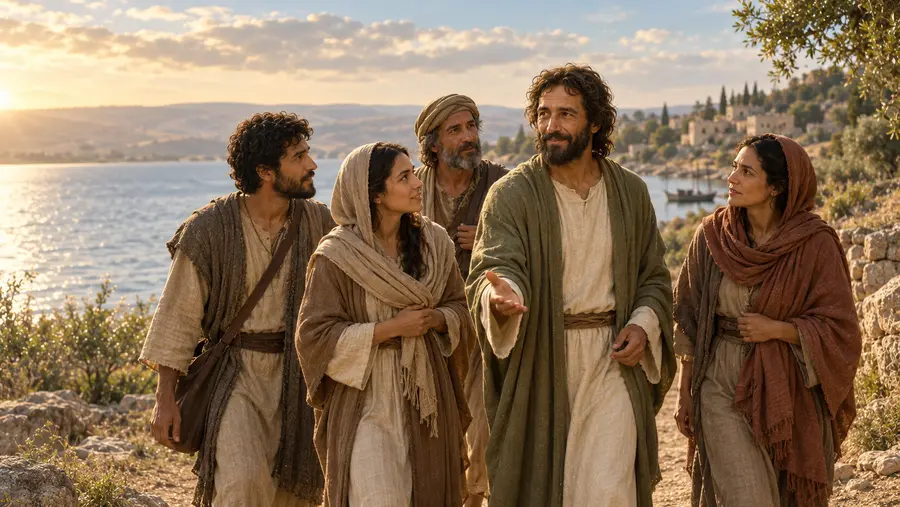
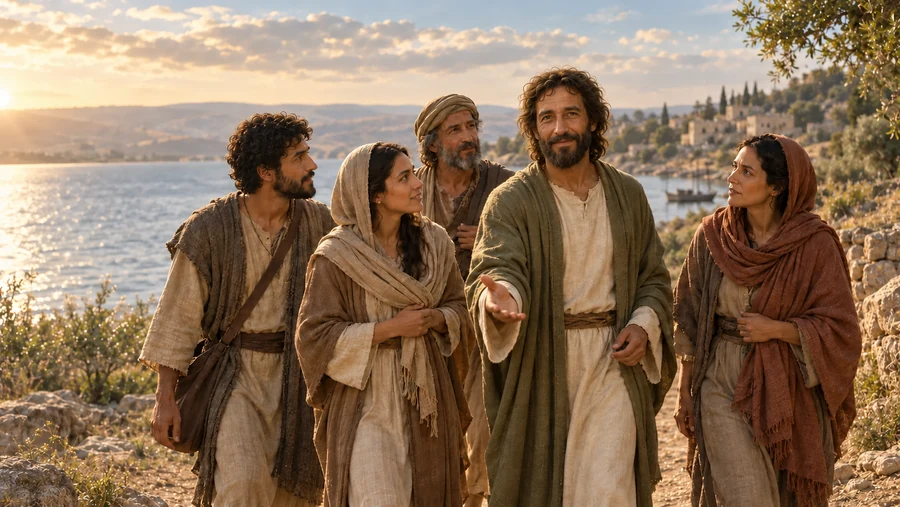
Publish approved Home Come and See gaze correction (#134)

diff --git a/index.html b/index.html
@@ -80,8 +80,8 @@
         <section class="fc-section">
             <div class="fc-container--standard">
                 <figure class="fc-content-artwork fc-home-featured-art fc-home-featured-art--invitation">
-                    <a class="fc-art-link" href="assets/page-art/home-come-and-see-1672.webp" target="_blank" rel="noopener noreferrer" data-artwork-detail="home-come-and-see" aria-haspopup="dialog" aria-label="Learn about Christ's invitation to come and see">
-                    <img src="assets/page-art/home-come-and-see-900.webp" srcset="assets/page-art/home-come-and-see-900.webp 900w, assets/page-art/home-come-and-see-1672.webp 1672w" sizes="(max-width: 1076px) calc(100vw - 36px), 1040px" alt="Jesus Christ inviting four attentive seekers to walk with Him beside the Sea of Galilee" width="1672" height="941" loading="lazy" decoding="async">
+                    <a class="fc-art-link" href="assets/page-art/home-come-and-see-1672.webp?v=20260905-approved-gaze" target="_blank" rel="noopener noreferrer" data-artwork-detail="home-come-and-see" aria-haspopup="dialog" aria-label="Learn about Christ's invitation to come and see">
+                    <img src="assets/page-art/home-come-and-see-900.webp?v=20260905-approved-gaze" srcset="assets/page-art/home-come-and-see-900.webp?v=20260905-approved-gaze 900w, assets/page-art/home-come-and-see-1672.webp?v=20260905-approved-gaze 1672w" sizes="(max-width: 1076px) calc(100vw - 36px), 1040px" alt="Jesus Christ inviting four attentive seekers to walk with Him beside the Sea of Galilee" width="1672" height="941" loading="lazy" decoding="async">
                     </a>
                     <figcaption>Come and see. The invitation to follow Jesus Christ begins with a willing step.</figcaption>
                 </figure>
@@ -183,7 +183,7 @@
             <p data-detail-paragraph>This gathering places scripture study, prayer, conversation, and sacred art around Jesus Christ. It reflects the purpose of focusChrist: helping sincere seekers learn of Him and continue into trustworthy study.</p>
             <p data-detail-paragraph>The open scriptures, prayerful posture, and attentive circle reflect ways disciples come to know the Savior: hearing His word, seeking the Father in prayer, and strengthening one another through faithful conversation. Jesus Christ remains at the center of each path.</p>
         </article>
-        <article data-artwork-detail-content="home-come-and-see" data-detail-image="assets/page-art/home-come-and-see-1672.webp" data-detail-full="assets/page-art/home-come-and-see-1672.webp" data-detail-image-alt="Jesus Christ inviting four attentive seekers to walk with Him beside the Sea of Galilee" data-detail-source="https://www.churchofjesuschrist.org/study/scriptures/nt/john/1?lang=eng" data-detail-source-label="Read John 1">
+        <article data-artwork-detail-content="home-come-and-see" data-detail-image="assets/page-art/home-come-and-see-1672.webp?v=20260905-approved-gaze" data-detail-full="assets/page-art/home-come-and-see-1672.webp?v=20260905-approved-gaze" data-detail-image-alt="Jesus Christ inviting four attentive seekers to walk with Him beside the Sea of Galilee" data-detail-source="https://www.churchofjesuschrist.org/study/scriptures/nt/john/1?lang=eng" data-detail-source-label="Read John 1">
             <span data-detail-eyebrow>An invitation to follow</span>
             <span data-detail-title>Come and See</span>
             <p data-detail-paragraph>Jesus Christ invited those who sought Him to come, learn, and follow. His invitation is personal and active, calling each seeker to draw near and discover who He is through faith and discipleship.</p>

diff --git a/tools/production_hardening_qa.py b/tools/production_hardening_qa.py
@@ -177,8 +177,8 @@ def check_owner_approved_art_assets(errors: list[str]) -> None:
[10 lines of base64/hex data omitted]

diff --git a/tools/artwork_details_qa.py b/tools/artwork_details_qa.py
@@ -3,6 +3,7 @@ from __future__ import annotations
 from pathlib import Path
 import re
 import sys
+from urllib.parse import urlsplit
 
 ROOT = Path(__file__).resolve().parents[1]
 PAGES = {
@@ -63,7 +64,7 @@ def main() -> int:
             for asset in re.findall(fr'{attr}="([^"]+)"', text):
                 if asset.startswith(("http://", "https://", "#")):
                     continue
-                target = (path.parent / asset).resolve()
+                target = (path.parent / urlsplit(asset).path).resolve()
                 if not target.is_relative_to(ROOT.resolve()) or not target.exists() or target.stat().st_size == 0:
                     errors.append(f"{relative}: missing local artwork asset: {asset}")
 
@@ -158,7 +159,7 @@ def main() -> int:
         text = (ROOT / relative).read_text(encoding="utf-8")
         for asset in re.findall(r'data-detail-full="([^"]+)"', text):
             full_assets.append(asset)
-            target = (ROOT / asset).resolve()
+            target = (ROOT / urlsplit(asset).path).resolve()
             if not target.is_relative_to(ROOT.resolve()) or not target.exists() or target.stat().st_size == 0:
                 errors.append(f"{relative}: missing full-image source: {asset}")
     if len(full_assets) != 40:

diff --git a/tools/unified_experience_qa.py b/tools/unified_experience_qa.py
@@ -205,7 +205,7 @@ def main() -> int:
         "assets/page-art/home-come-and-see-1672.webp",
         "assets/page-art/home-light-through-study-1672.webp",
     ):
-        if f'class="fc-art-link" href="{full_art}"' not in home:
+        if not re.search(r'class="fc-art-link" href="' + re.escape(full_art) + r'(?:\?[^"\s]*)?"', home):
             fail(errors, f"index.html: full-resolution supporting artwork link missing: {full_art}")
 
     ask = (ROOT / "ask.html").read_text(encoding="utf-8")

diff --git a/memory/2026-09-05.md b/memory/2026-09-05.md
@@ -18,3 +18,11 @@
 - Desktop uses two-card and three-card grids, tablet reduces three-card groups to two columns, and mobile stacks the scenes in one column. Every card retains the full 16:9 composition.
 - Each scene has 800 and 1400 pixel responsive WebP variants and a local 1672 pixel full source. Supporting images lazy-load, decode asynchronously, use explicit dimensions, and open through the shared same-page full-image viewer with a new-tab fallback.
 - The Pioneer artwork checks were added to both `tools/unified_experience_qa.py` and `tools/production_hardening_qa.py`. Delivered 800 and 1400 pixel variants are capped at 120 KB, while every source and variant is dimension-checked and required by the release gates.
+
+## Home Come and See correction approved
+
+- Wyatt approved the final gaze/likeness/hand revision in this session and instructed that approval without further instructions authorizes upload, live verification, and memory closure.
+- Approved source: exec-dea1226c-08e4-45f8-a512-6a055b2ba9e5.png. Christ looks toward the viewer with a gentle expression and inviting hand. Preserve the four companions, olive cloak, lakeside composition, and photographic style.
+- The 900 and 1672 pixel WebP assets are replaced from that exact approved source. Home image, responsive source, detail image, and full-size link use a fresh cache key. Home hero and other artwork are unchanged.
+- Governing image workflow: owner requests revision; edit to the established visual standard; present candidate; owner approves, rejects, or requests changes. Approval alone authorizes production upload and verification. This supersedes the older pre-presentation private-output lock where incompatible with the user's explicit workflow.
+- Mobile viewer repair remains separate and unverified in production; do not claim the image approval repairs mobile centering.
